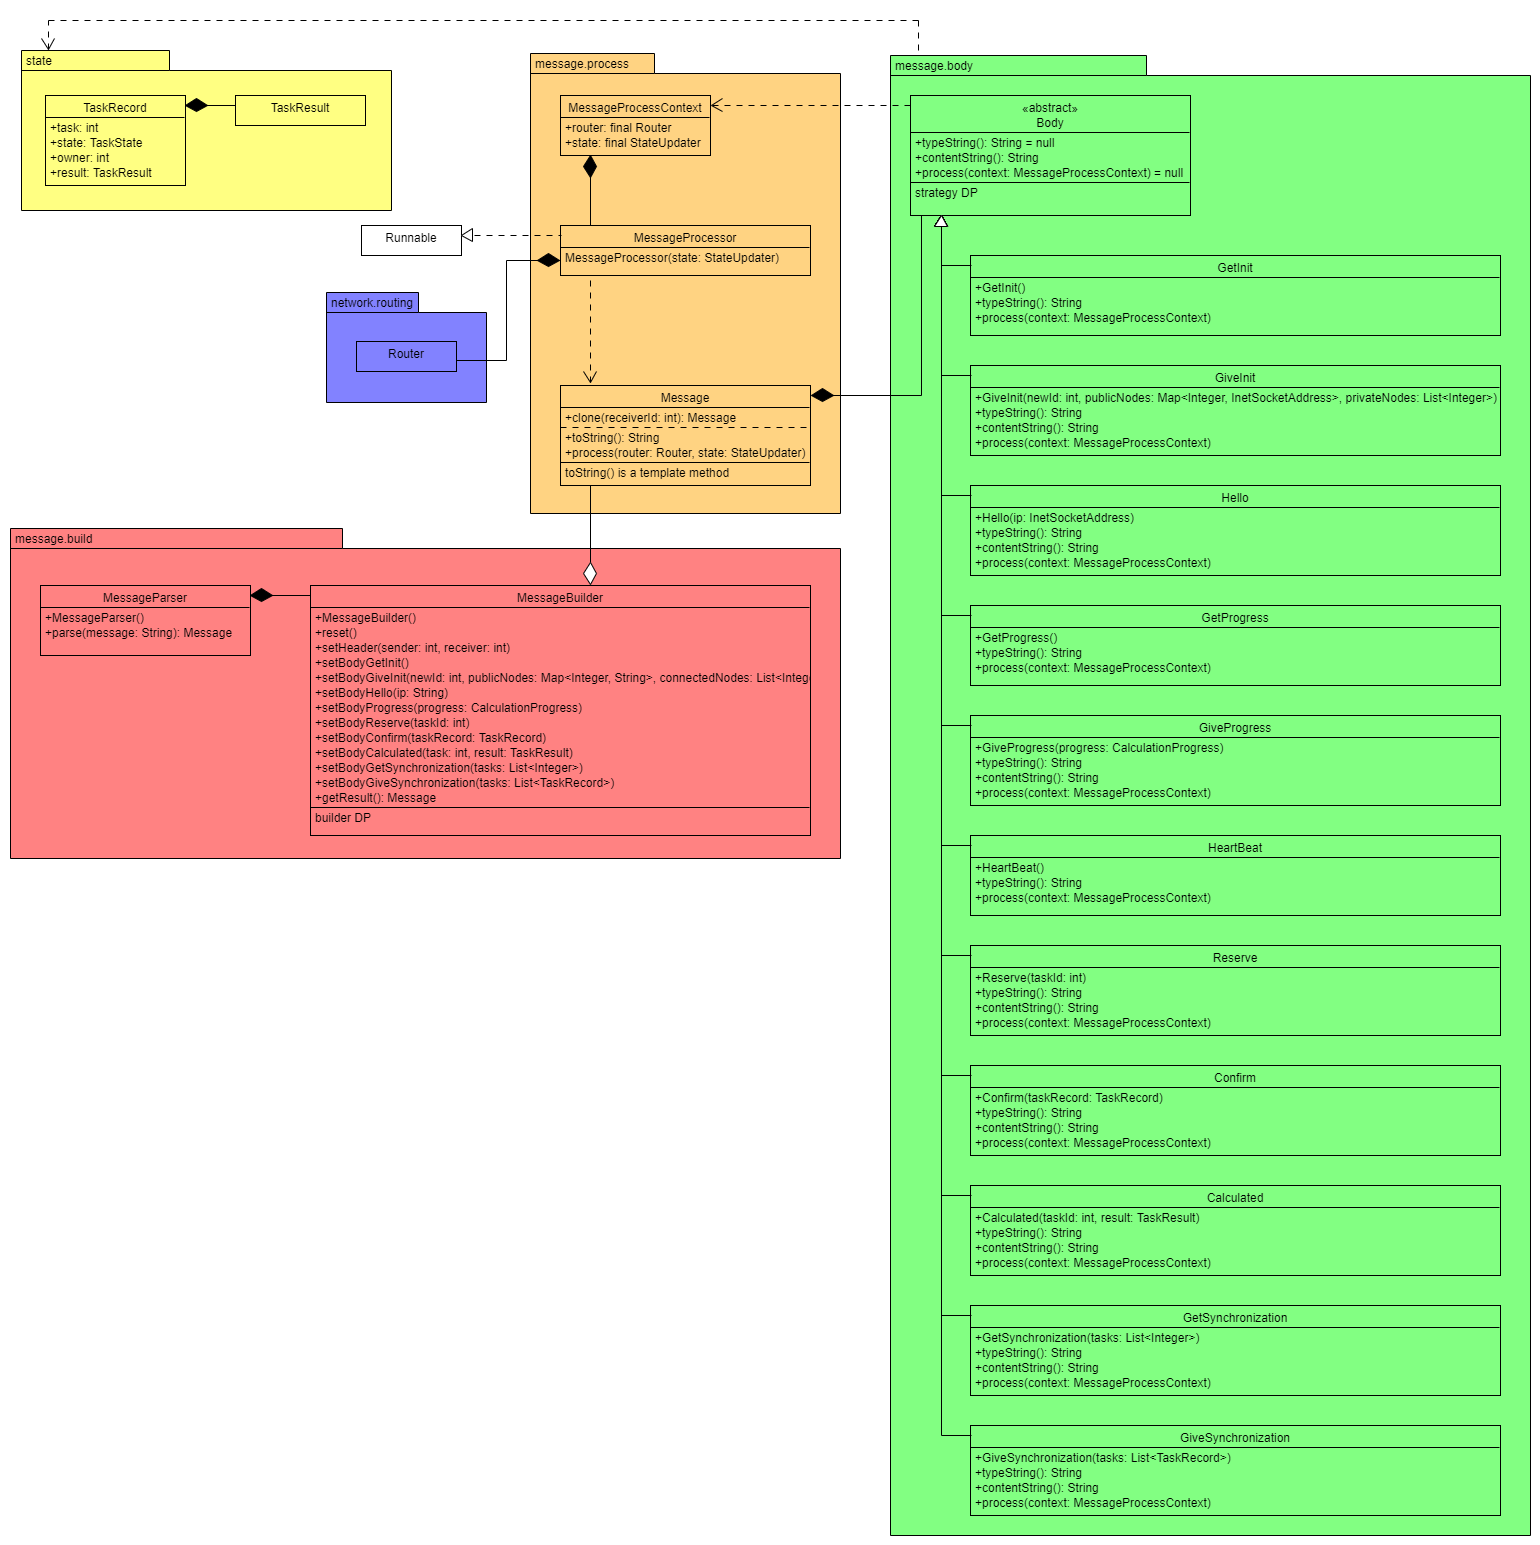
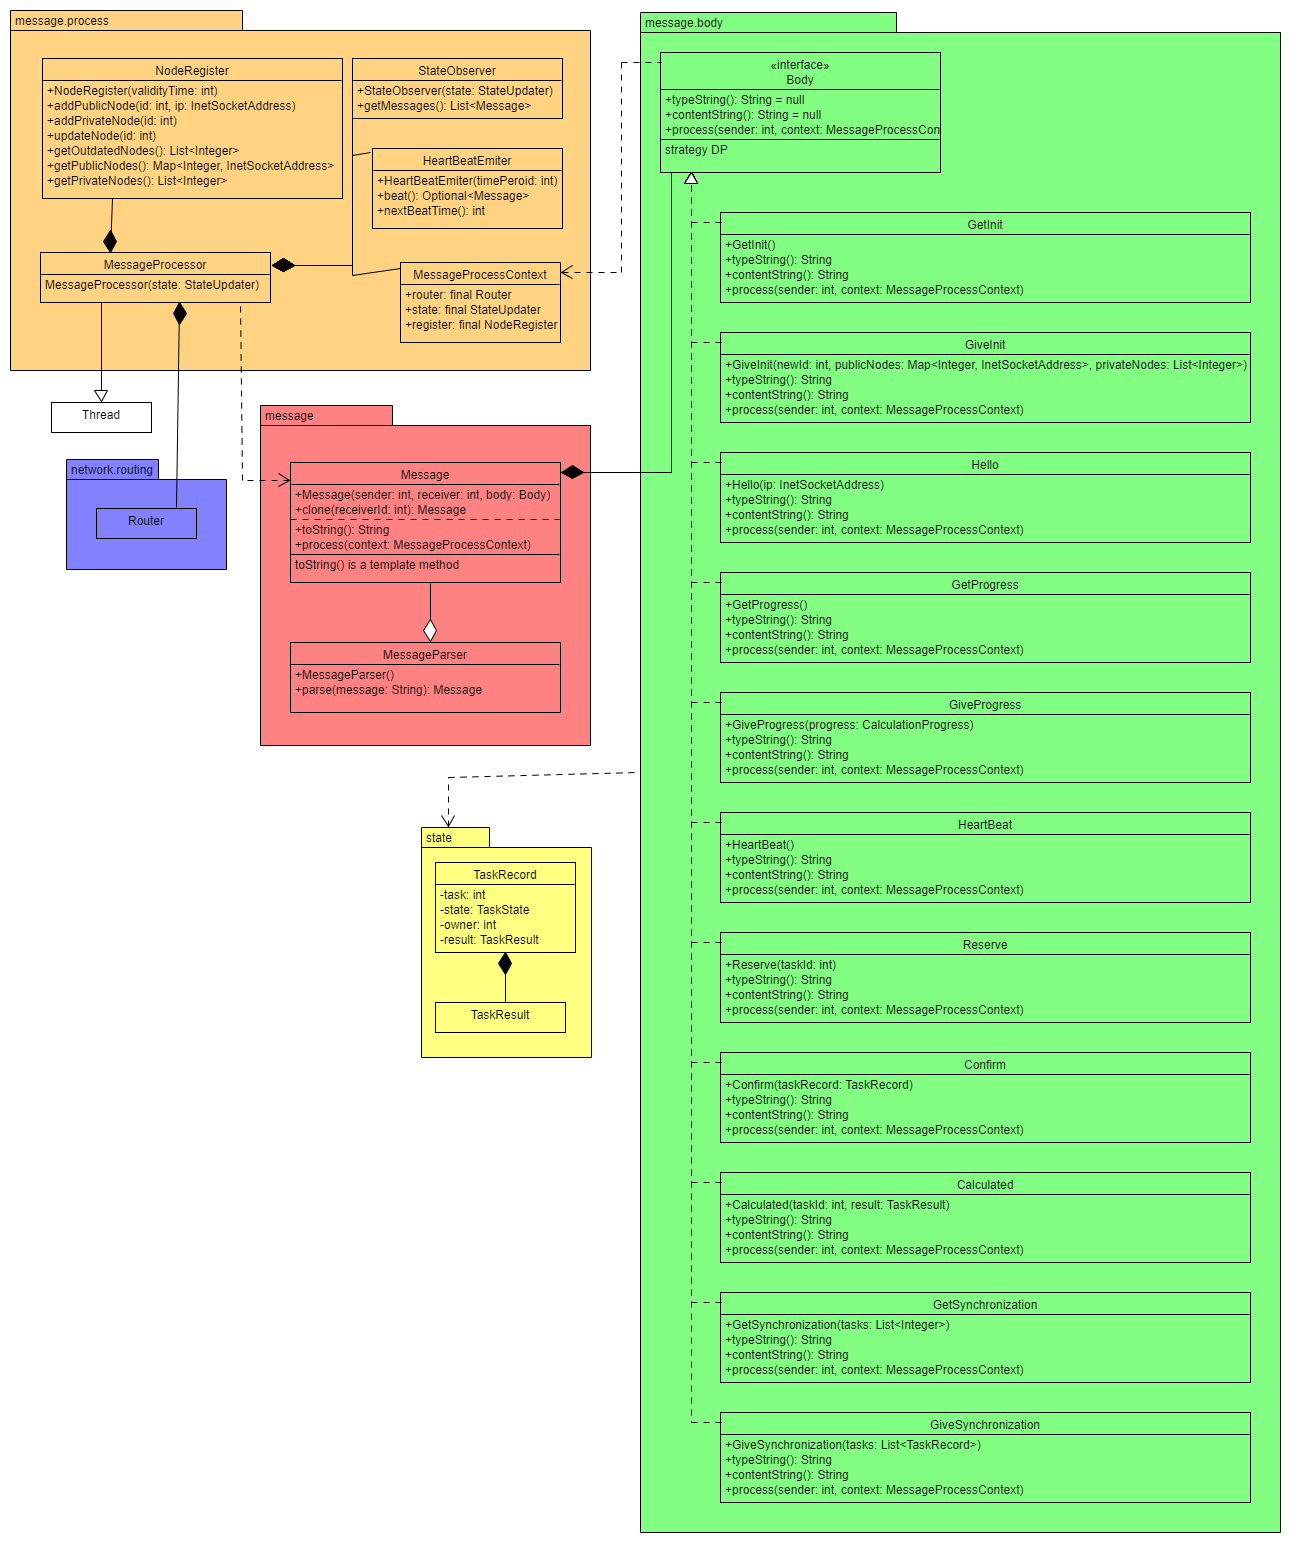
Documentation message module

diff --git a/docs/message_module.md b/docs/message_module.md
@@ -2,31 +2,67 @@
 
 <img src="./img/uml_message.png">
 
-MESSAGE - prototype, state/strategy, template method
+## Pakiet message
 
-MESSAGE PARSER - builder
+Zajmuje się reprezentacją wiadomości przesyłanej między węzłami oraz jej konstrukcją. 
+
+### Message
+
+Reprezentuje wiadomość przesyłaną w sieci. 
+
+Konstruktor przyjmuje identyfikatory nadawcy i adresata oraz obiekt ```Body``` odpowiedni dla typu wiadomości. 
+
+Metoda ```clone(int receiver)``` klonuje dany obliekt ze zmienionym adresatem. Używana podczas wysyłania wiadomości broadcastowych. Jest implementacją wzorca projektowego "Prototyp". 
+
+```toString()``` implementuje wzorzec projektowy "template method". Zwraca ciąg reprezentujący wiadomość w formacie json takim, jak [tutaj](./messages.md). Używa do tego celu metod ```Body.typeString()``` i ```Body.contentString()```. 
+
+Metoda ```process(MessageProcessContext context)``` wywołuje ```process(int sender, MessageProcessContext context)``` na obiekcie ```Body``` w ramach wzorca "strategy".
+
+### MessageParser
+
+Zamienia string z wiadomością w formacie ```json``` na obiekt ```Message```.
 
 
+## Pakiet body
 
-Jest odpowiedzialny za przetwarzanie ruchu z sieci oraz wysyłanie wiadmości zleconych przez moduł ```State```. 
+Zajmuje się działaniem ciała wiadomości.
 
-Aby uniknąć aktywnego oczekiwania, wątek ```Network``` zasypia gdy nie ma wiadomości do przetworzenia, ani wysłania. Ma on dwa źródła zadań: wątki ```Network``` i ```State```. Każdy z nich ma możliwość wybudzenia wątku za pomocą metody ```Thread.interrupt()```.
+### Body
 
-## Wysyłanie wiadomości
+Jest interfejsem dla każdej wiadomości. 
 
-Aby wysłać wiadomość, wywoływana jest metoda ```network.routing.Router.send(Message message)```.
+```typeString()``` i ```contentString()``` zwracają odpowiednio ciąg reprezentujący typ wiadomości oraz jej ciało w formacie ```json```. Używane do komponowania znakowej reprezentacji obiektu.
 
-## Odbieranie wiadomości
+Metoda ```process(int sender, MessageProcessContext context)``` realizuje wzorzec projetkowy "strategy". Przetwarza wiadomość i aplikuje jej efekty na zgrupowanych obiektach w zmiennej ```context```.
 
-Wątek ```Message``` odbiera wiadomości w postaci listy dzięki metodzie ```network.routing.Router.getMessages()```, a nastęnie je przetwarza.
+### Implementacje Body
 
-## Zmiana stanu
+Odpowiadają wszystkim typom [wiadomości](./messages.md). Implementują ich efekty i budowę.
 
-Gdy wątek otrzyma wiadomość, która informuje o zmianie stanu, zostaje wywołana odpowiednia metoda na obiekcie ```StateUpdater``` pełni on funkcję proxy dla modułu ```State```.
 
-## Heart beat
+## Pakiet process
 
-Czas od ostatniego broadcastu ```heart beat``` jest monitorowany i gdy przekroczy wartość podaną w pliku konfiguracyjnym, wysyła kolejny broadcast, a czas jest resetowany. Kiedy wątek zasypia, jako maksymalny czas bezczynności podaje taki, aby po wybudzeniu należało wysłać kolejny ```heart beat```.
+Odpowiada za przetwarzanie wiadomości i zmian stanu. Implementuje protokoły sieci peer to peer.
+
+### MessageProcessor
+
+Przetwarza wiadomości w ramach osobnego wątku. Odpowiada za cykliczne wołanie metod ```NodeRegister```, ```HeartBeatEmiter``` i ```StateObserver```. Wątek zasypia maksymalnie na czas ```HeartBeatEmiter.nextBeatTime()``` gdy nie ma nic do roboty. Jest budzony metodą ```Thread.interrupt()``` przez wątek, który dodał jakąś pracę.
+
+### NodeRegister
+
+Kontroluje heart beat pozostałych węzłów oraz składuje informacje o pozostałych węzłach w sieci. 
+
+### StateObserver
+
+Obserwuje zmiany stanu i tworzy wiadomości, gdy zmiana wymaga poinformowania innych węzłów. 
+
+### HeartBeatEmiter
+
+Kontroluje częstotliwość emitowania wiadomości heart beat. Generuje odpowiednią wiadomość.
+
+### MessageProcessContext
+
+Zawiera obiekty, na które może wpłynąć przetworzenie wiadomości.
 
 ---
 

diff --git a/docs/network_module.md b/docs/network_module.md
@@ -44,7 +44,7 @@ Odpowiada za niezawodne wysyłanie wiadomości na odpowiednie połączenia. Zarz
 
 Metoda ```createInterface(int node_id)``` zleca stworzenie nowego wpisu w ```RoutingTable```. 
 
-Metoda ```createInterface(int node_id, InetSocketAddress)``` oprócz stworzenia nowego woisu, tworzy obiekt ```StaticConnection``` z podanym adresem. Następnie dodaje połączenie do listy połączeń statycznych w ```ConnectionManager``` i wiąże ```node_id``` z nowym połączeniem w ```RoutingTable```. 
+Metoda ```createInterface(int node_id, InetSocketAddress)``` oprócz stworzenia nowego wpisu, tworzy obiekt ```StaticConnection``` z podanym adresem. Następnie dodaje połączenie do listy połączeń statycznych w ```ConnectionManager``` i wiąże ```node_id``` z nowym połączeniem w ```RoutingTable```. 
 
 Aby przerwać połączenie z nodem, który opuścił sieć, wywoływana jest metoda ```deleteInterface(int node_id)```. Usuwa ona wpis w ```RoutingTable``` oraz wymusza zamknięcie powiązanego połączenia. 
 
@@ -58,6 +58,8 @@ Jeśli dany węzeł jest publiczny, każda wiadomość broadcast jest zamieniana
 Jeśli któraś z otrzymanych wiadomości jest typu broadcast, zamienia ją na wiele wiadomości unicast i rozsyła do wszystkich węzłów prywatnych (posiada odpowiednią listę uzupełnianą podczas wywoływania metody ```createInterface()```). Dodatkowo, porzekazuje przekształconą wiadomość unicast do zwracanej listy.
 
 Jeśli wiadomość jest typu unicast, ale nie jest skierowana do obecnego węzła, jest przesyłana dalej odpowiednim połączeniem. I zostaje usunięta ze zwracanej listy. 
+
+### PublicRouter
 
 ### RoutingTable
 
